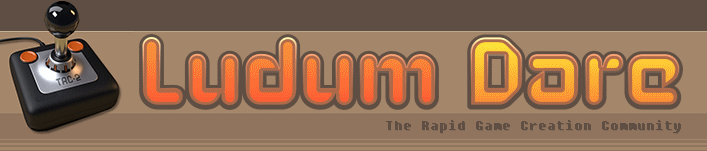
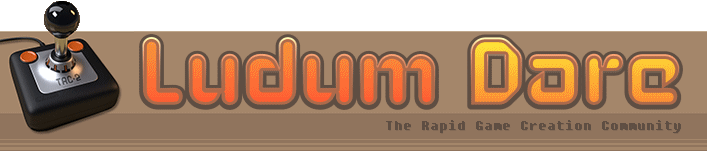
tweaked again... it doesn't end.

diff --git a/hub/index2.html b/hub/index2.html
@@ -21,7 +21,7 @@ font-family:arial,verdana,sans-serif;
 			<td align="center">
 				<table cellspacing="0" cellpadding="0" border="0" width="707">
 					<tr>
-						<td align="center" bgcolor="#90745e">
+						<td align="center">
 							<img src="hub/hub-header.png"/>
 						</td>
 					</tr>
